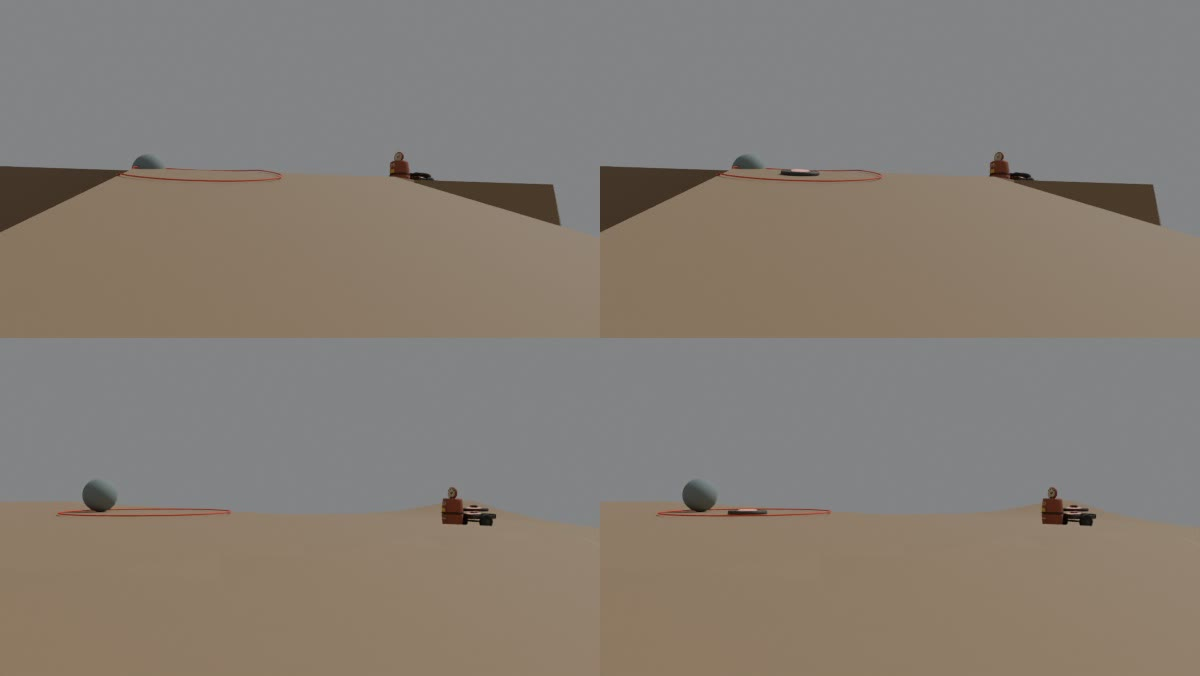
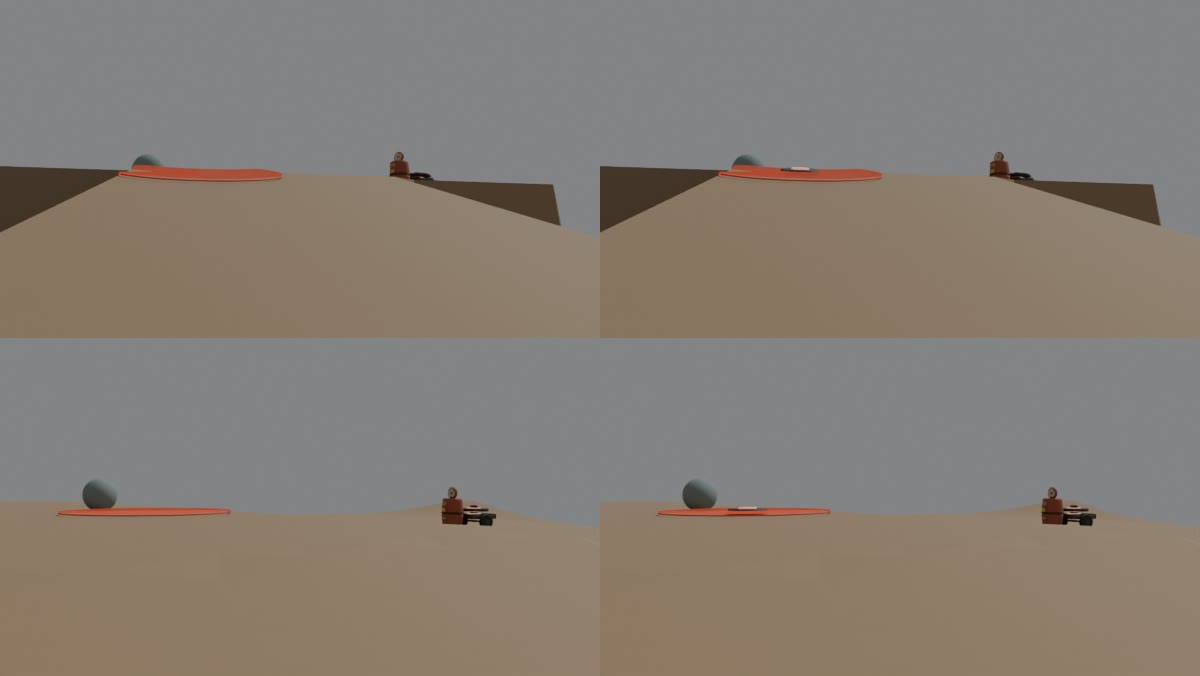
Keep the deployed disc readable above the live pit paint

diff --git a/artifacts/visual-followup-w44/w1-126/README.md b/artifacts/visual-followup-w44/w1-126/README.md
@@ -1,19 +1,21 @@
 # The Spillway's working tools
 
-The mag trapper now leaves a physical-looking disc at the centre of its live pit. The original warning and the two discs on the cart still carry their separate jobs. The planted disc is a mesh with no collider. The cart still hoists its top disc before release, and the pit takes the deployed mesh with it when it ends.
+The mag trapper raises a disc on its mast, then leaves the same tool at the centre of its live pit. The deployed casing sits on the floor and reads above the warning paint. It has no collider. The pit takes the disc with it when it ends.
 
 ## Read the magnet and the disc together
 
-The normal trapper loop provided the poses, transforms and committed geometry. Godot ran headless. Blender in background mode drew the exported meshes against the sampled park floor. The thin outline traces the committed radius. The plates omit the game's hazard fill, effects, other scenery and HUD. The sphere shows the ball's radius for scale.
+The normal trapper loop provided the poses, transforms and committed geometry. Godot ran headless. Blender in background mode drew the exported meshes against the sampled park floor. The thin outline traces the committed radius. The first two sheets isolate the tool silhouette. The live-fill sheet adds the exported static area, full warning fill and live scorch at their shipped opacity. Blender applies the game’s 0.30 m depth pull to those layers. The plates omit effects, surrounding scenery and HUD. The neutral sphere shows the ball’s radius for scale.
 
 | Place | Near views in reading order | Distant control |
 | --- | --- | --- |
-| Dam powerhouse toe apron | Stock wind-up, stock live, raised disc, seated disc. The lens is 14 m from the pit and 25 m from the cart. | 33 m to the pit, 44 m to the cart. |
+| Dam powerhouse toe apron | Stock wind-up, stock live, raised disc, original 0.20 m seated disc. The lens is 14 m from the pit and 25 m from the cart. | 33 m to the pit, 44 m to the cart. |
 | Flume bench landing | Same four states. The lens is 16 m from the pit and 25 m from the cart. | 33 m to the pit, 43 m to the cart. |
 
-[Dam comparison](dam.jpg) · [Flume comparison](flume.jpg) · [Distant stock and seated, dam above flume](distant.jpg)
+[Dam silhouette study](dam.jpg) · [Flume silhouette study](flume.jpg) · [Live fill, near](live-fill.jpg) · [Live fill, distant](distant.jpg)
 
-Stock loses the hoisted disc at release. Its live ring marks the danger, but there is no working tool on the ground. Raising the deployed disc by 0.92 m makes its profile stronger and leaves a visible space beneath it. It suggests a raised object the ball must clear. The seated disc reads as part of the floor and leaves the ring to carry the hazard's reach. The distant comparison keeps the low silhouette, though the final blend with the actual live fill still needs a drawn game pass.
+Stock loses the hoisted disc at release. Its live ring marks the danger, but there is no working tool on the ground. Raising the deployed disc by 0.92 m makes its profile stronger and leaves a visible space beneath it. It suggests a raised object the ball must clear. The original seated disc lost its dark casing under the live paint. At 0.25 m the core emerged before the casing. The 0.30 m profile is the first tested height that shows the dark rim and light centre together on both floors near the rider. The 0.35 m profile adds height without a clearer read. The shipped candidate scales the mesh vertically by 1.5 and leaves the underside on the ground. The disk’s width and the pit’s radius stay fixed.
+
+The near live-fill sheet shows stock, the 0.20 m version and the final 0.30 m version from left to right. The distant sheet shows stock and the final version. In both sheets the dam is the top row. The distant read is a thin dark rim under a bright centre. These are Blender comparisons of rendered geometry and composited warning layers. Godot’s final blend and movement through live cover still need a drawn game pass.
 
 Headless Godot drove light and grown balls into the committed pit at the same 16 m/s approach, using a regular spawner beside `(124, 481)` on the dam and `(-290, 442)` on the flume. The four runs entered the 4.5 m ring. It caught each light ball once and neither grown ball. The matching presentation-disabled runs reproduced all 36 sampled positions, velocities and hold states exactly. The live mark kept its 1.1 s warning, 3 s live time and 1.4 m reach. The approach test stages a single trapper at each worksite. It does not measure reinforcement placement or a live pack.
 
